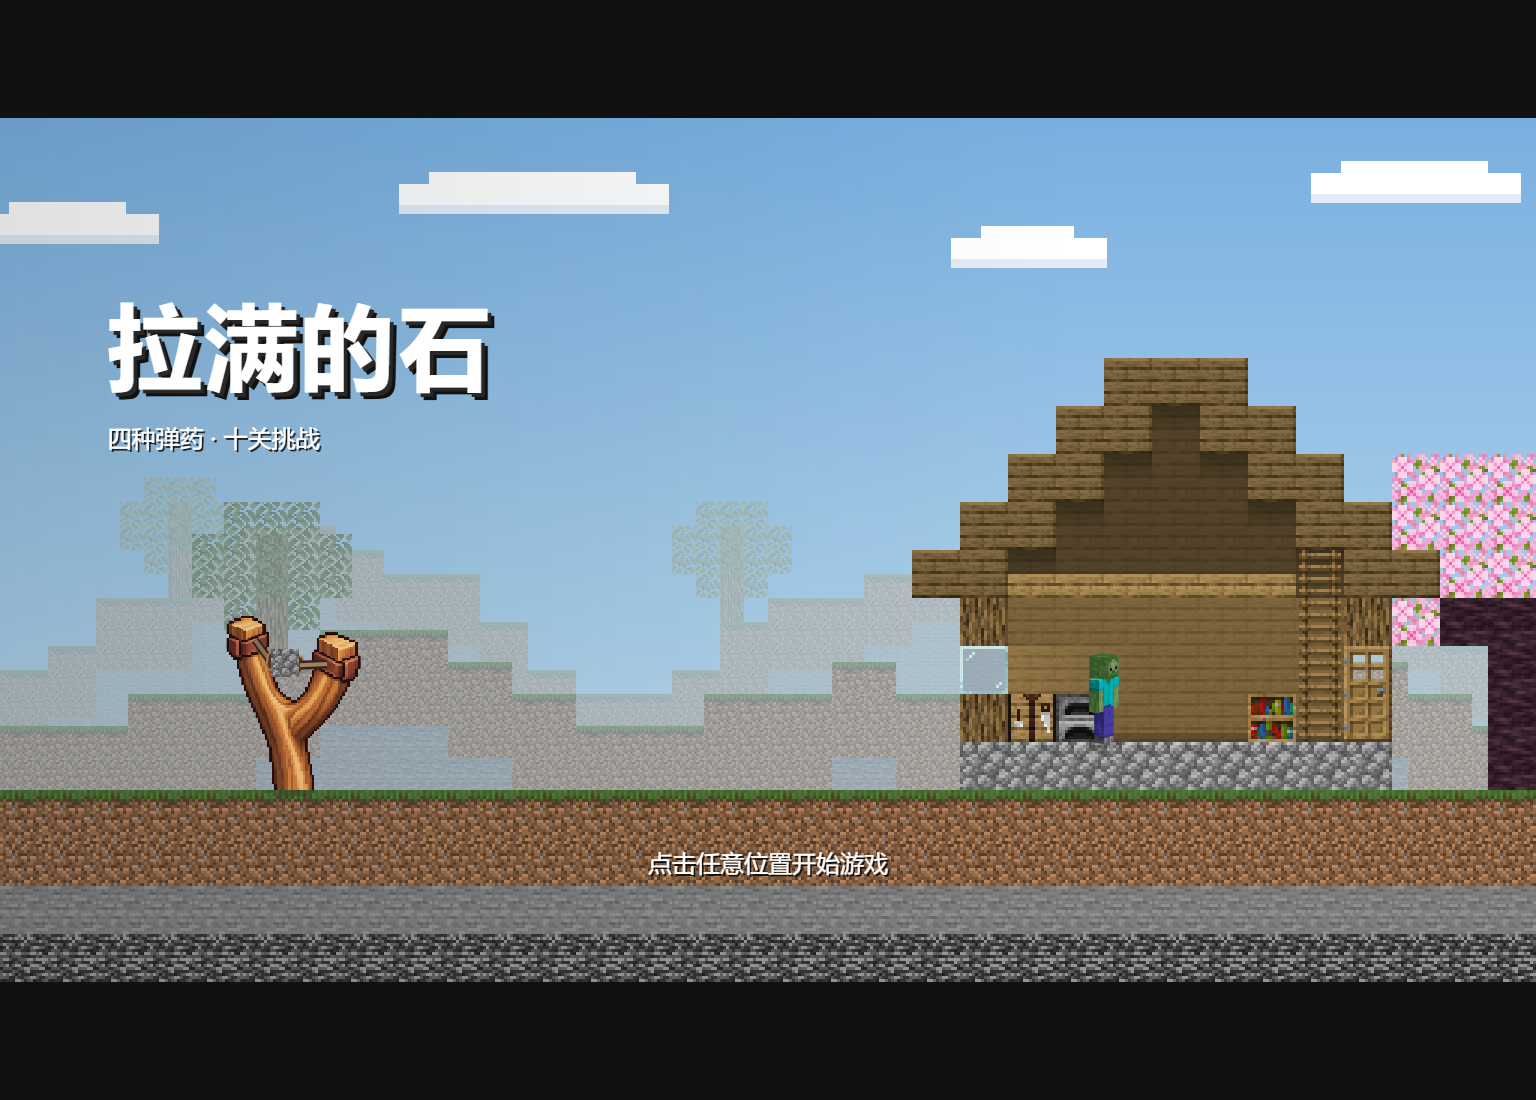
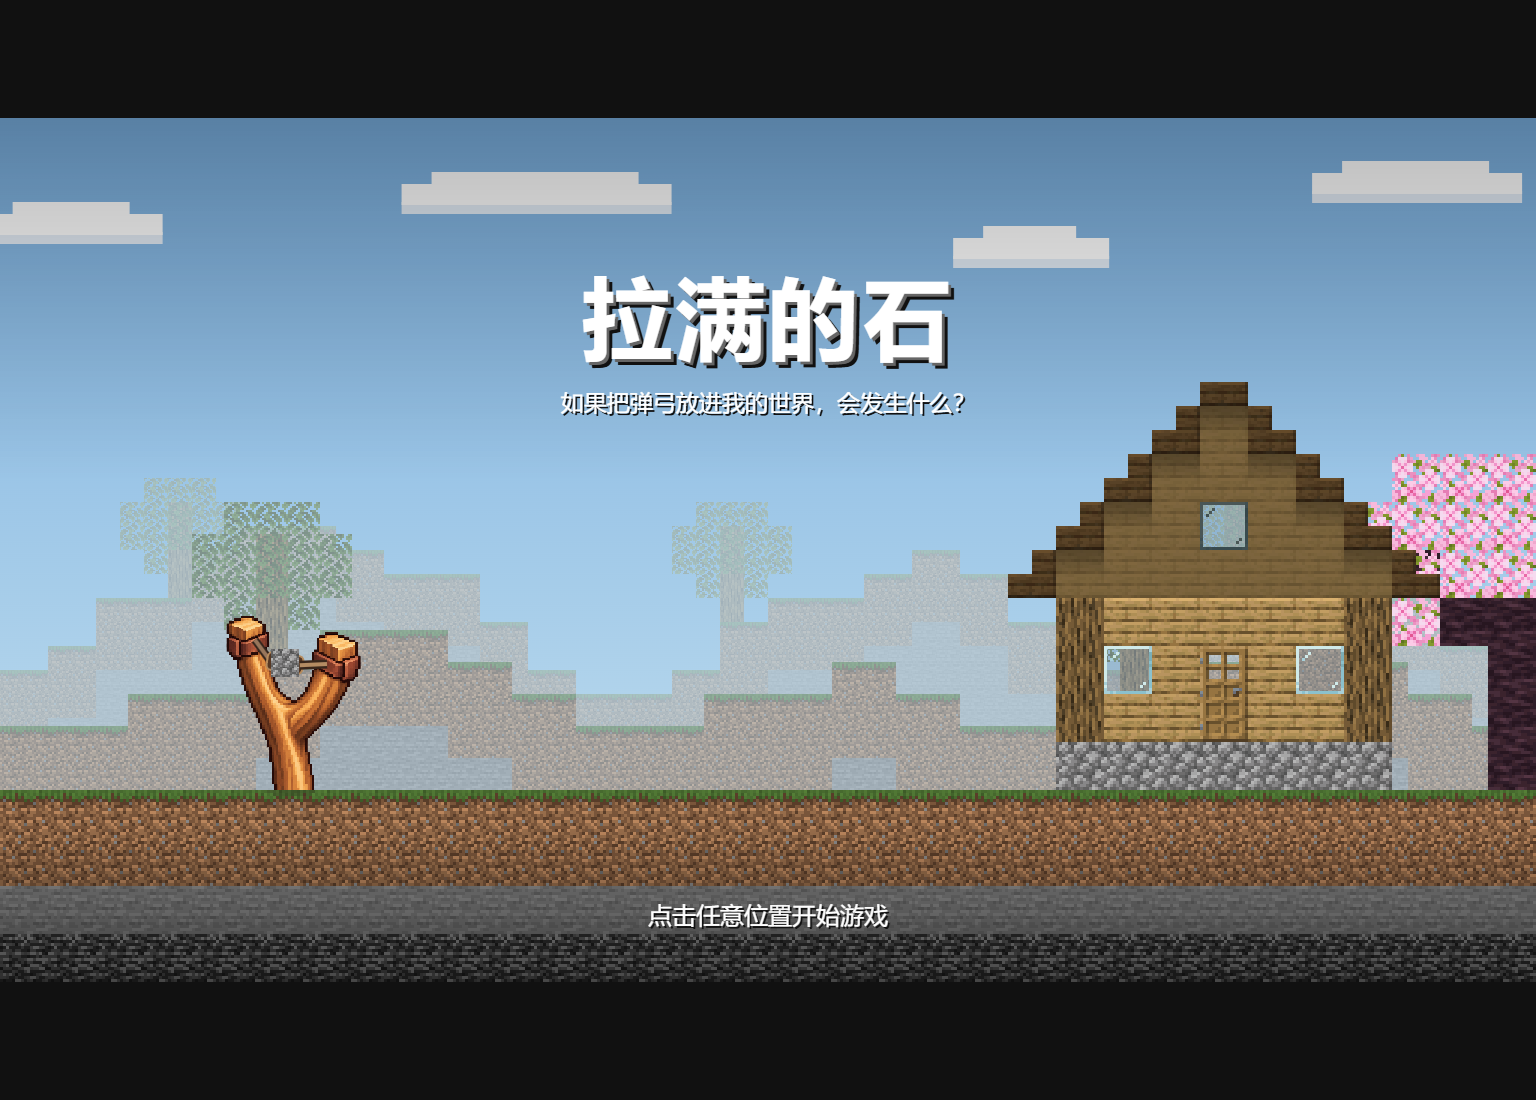
Build real block stairs and aligned windows, fix first-stage guard

diff --git a/README.md b/README.md
@@ -54,7 +54,7 @@ Windows 玩家可下载[0.11.0 历史试玩包](https://github.com/qcya/stone-at
 
 命中不可燃表面也会在撞击面外侧留下2.8秒火区，以相邻空格为中心及四邻格形成十字，经过的怪物同样会受到三段燃烧伤害。此类落火只烧接触到的局部木格，不沿相连木材继续蔓延；直接命中木材才使用原有五格直径的蔓延规则。
 
-**房屋和后墙始终固定，失去支撑也不会倒塌。** 每个初始方块有完整 16×16 纹理，纹理像素可独立破坏。爆炸能推动场上弹药，TNT 各自保留引信。弹药、敌人使用本地 Matter.js 0.20.0，无降级物理模式。
+**房屋和后墙始终固定，失去支撑也不会倒塌。** 建筑使用整格方块、玻璃及半格楼梯形状；楼梯空缺同时体现在画面和碰撞网格中，纹理像素可独立破坏。窗户按整格对齐，不使用另盖贴面的方式改变材料外观。第一关木屋由掠夺者驻守。爆炸能推动场上弹药，TNT 各自保留引信。弹药、敌人使用本地 Matter.js 0.20.0，无降级物理模式。
 
 监守者（用户所称坚守者）在第九、十关出现，使用独立大体型碰撞、原版皮肤和立体四肢动画。同一颗圆石反复接触只算一次；爆炸后的落地伤害不会额外扣除其耐久，跌出场景仍算击败。普通怪物会行走、停步观望和抬手，受伤泛红、倒地、白色粒子消散。
 
